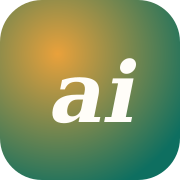
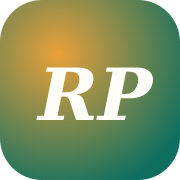
Rebrand site from Delveinai to Rainy Peaks
Names the studio Rainy Peaks and repositions it for search as "a northern
web design studio":

- site.ts: name, tagline, URL, contact email and LinkedIn handle
- Domain moved to rainypeaks.co.uk across canonical URLs, sitemap config,
  robots.txt and schema
- Logo wordmark becomes "Rainy Peaks" in the header, footer and landing page
- Every page title now ends "| Rainy Peaks"; the homepage title and hero
  eyebrow carry the "northern web design studio" positioning alongside the
  Manchester keyword
- About page: the "why delve in?" brand story is rewritten as "why Rainy
  Peaks?" — the rain and the hills, building for the worst day not the best
- OG image and app icons regenerated; they also drop the stale AI-era
  headline for "Websites that win work"
- README: new brand, new domain, plus a note to 301 the old domain

Claude-Session: https://claude.ai/code/session_01XxfkwaGZXxjSN3Y3uQLueZ

Changed region(s): [[0.1944, 0.3056, 0.8611, 0.6944]]

diff --git a/src/data/serviceAreas.ts b/src/data/serviceAreas.ts
@@ -25,7 +25,7 @@ export const serviceAreaPages: ServiceAreaPage[] = [
     serviceSlug: 'website-design-build',
     areaName: 'Manchester',
     h1: 'Web Design in Manchester',
-    metaTitle: 'Web Design Manchester - Websites for Small Businesses | Delveinai',
+    metaTitle: 'Web Design Manchester - Websites for Small Businesses | Rainy Peaks',
     metaDescription:
       'Web design in Manchester for small businesses. Fast, mobile-first, accessible websites built to win enquiries. Fixed prices, no lock-in, designed and built locally.',
     intro:
@@ -49,7 +49,7 @@ export const serviceAreaPages: ServiceAreaPage[] = [
     serviceSlug: 'ecommerce-websites',
     areaName: 'Manchester',
     h1: 'Ecommerce Web Design in Manchester',
-    metaTitle: 'Ecommerce Web Design Manchester - Online Shops That Sell | Delveinai',
+    metaTitle: 'Ecommerce Web Design Manchester - Online Shops That Sell | Rainy Peaks',
     metaDescription:
       'Ecommerce web design in Manchester: fast product pages, short checkouts and stock that stays in sync. Shopify and custom builds for independent retailers and makers.',
     intro:
@@ -73,7 +73,7 @@ export const serviceAreaPages: ServiceAreaPage[] = [
     serviceSlug: 'local-seo',
     areaName: 'Manchester',
     h1: 'Local SEO in Manchester',
-    metaTitle: 'Local SEO Manchester - Get Found by Nearby Customers | Delveinai',
+    metaTitle: 'Local SEO Manchester - Get Found by Nearby Customers | Rainy Peaks',
     metaDescription:
       'Local SEO in Manchester for small businesses: Google Business Profile, map pack visibility, local landing pages and technical fixes. Honest monthly reporting.',
     intro:
@@ -99,7 +99,7 @@ export const serviceAreaPages: ServiceAreaPage[] = [
     serviceSlug: 'website-design-build',
     areaName: 'Liverpool',
     h1: 'Web Design in Liverpool',
-    metaTitle: 'Web Design Liverpool - Websites for Small Businesses | Delveinai',
+    metaTitle: 'Web Design Liverpool - Websites for Small Businesses | Rainy Peaks',
     metaDescription:
       'Web design in Liverpool for small businesses. Fast, mobile-first websites built to win enquiries, with fixed prices, full ownership and no lock-in.',
     intro:
@@ -123,7 +123,7 @@ export const serviceAreaPages: ServiceAreaPage[] = [
     serviceSlug: 'ecommerce-websites',
     areaName: 'Liverpool',
     h1: 'Ecommerce Web Design in Liverpool',
-    metaTitle: 'Ecommerce Web Design Liverpool - Online Shops That Sell | Delveinai',
+    metaTitle: 'Ecommerce Web Design Liverpool - Online Shops That Sell | Rainy Peaks',
     metaDescription:
       'Ecommerce web design in Liverpool: fast product pages, trusted checkouts and stock synced with your shop floor. Shopify and custom builds for independent retailers.',
     intro:
@@ -147,7 +147,7 @@ export const serviceAreaPages: ServiceAreaPage[] = [
     serviceSlug: 'local-seo',
     areaName: 'Liverpool',
     h1: 'Local SEO in Liverpool',
-    metaTitle: 'Local SEO Liverpool - Get Found by Nearby Customers | Delveinai',
+    metaTitle: 'Local SEO Liverpool - Get Found by Nearby Customers | Rainy Peaks',
     metaDescription:
       'Local SEO in Liverpool for small businesses: Google Business Profile, map pack rankings, local pages and technical fixes. Reporting tied to enquiries, not vanity metrics.',
     intro:
@@ -173,7 +173,7 @@ export const serviceAreaPages: ServiceAreaPage[] = [
     serviceSlug: 'website-design-build',
     areaName: 'Cheshire',
     h1: 'Web Design in Cheshire',
-    metaTitle: 'Web Design Cheshire - Websites for Small Businesses | Delveinai',
+    metaTitle: 'Web Design Cheshire - Websites for Small Businesses | Rainy Peaks',
     metaDescription:
       'Web design across Cheshire: Chester, Wilmslow, Macclesfield, Crewe and Northwich. Fast, well-crafted websites for businesses selling on quality rather than price.',
     intro:
@@ -197,7 +197,7 @@ export const serviceAreaPages: ServiceAreaPage[] = [
     serviceSlug: 'ecommerce-websites',
     areaName: 'Cheshire',
     h1: 'Ecommerce Web Design in Cheshire',
-    metaTitle: 'Ecommerce Web Design Cheshire - Online Shops That Sell | Delveinai',
+    metaTitle: 'Ecommerce Web Design Cheshire - Online Shops That Sell | Rainy Peaks',
     metaDescription:
       'Ecommerce web design across Cheshire: fast, well-photographed product pages and short checkouts for boutiques, makers, farm shops and specialist retailers.',
     intro:
@@ -221,7 +221,7 @@ export const serviceAreaPages: ServiceAreaPage[] = [
     serviceSlug: 'local-seo',
     areaName: 'Cheshire',
     h1: 'Local SEO in Cheshire',
-    metaTitle: 'Local SEO Cheshire - Get Found by Nearby Customers | Delveinai',
+    metaTitle: 'Local SEO Cheshire - Get Found by Nearby Customers | Rainy Peaks',
     metaDescription:
       'Local SEO across Cheshire: Google Business Profile, map pack visibility and local landing pages for Chester, Wilmslow, Macclesfield, Northwich and Crewe.',
     intro:
@@ -247,7 +247,7 @@ export const serviceAreaPages: ServiceAreaPage[] = [
     serviceSlug: 'website-design-build',
     areaName: 'Warrington',
     h1: 'Web Design in Warrington',
-    metaTitle: 'Web Design Warrington - Websites for Small Businesses | Delveinai',
+    metaTitle: 'Web Design Warrington - Websites for Small Businesses | Rainy Peaks',
     metaDescription:
       'Web design in Warrington for small businesses. Fast, mobile-first websites for trades, logistics, manufacturing and professional services. Fixed prices, no lock-in.',
     intro:
@@ -271,7 +271,7 @@ export const serviceAreaPages: ServiceAreaPage[] = [
     serviceSlug: 'ecommerce-websites',
     areaName: 'Warrington',
     h1: 'Ecommerce Web Design in Warrington',
-    metaTitle: 'Ecommerce Web Design Warrington - Online Shops That Sell | Delveinai',
+    metaTitle: 'Ecommerce Web Design Warrington - Online Shops That Sell | Rainy Peaks',
     metaDescription:
       'Ecommerce web design in Warrington: fast product pages, trade accounts and stock synced with your systems. Built for retailers, wholesalers and distributors.',
     intro:
@@ -295,7 +295,7 @@ export const serviceAreaPages: ServiceAreaPage[] = [
     serviceSlug: 'local-seo',
     areaName: 'Warrington',
     h1: 'Local SEO in Warrington',
-    metaTitle: 'Local SEO Warrington - Get Found by Nearby Customers | Delveinai',
+    metaTitle: 'Local SEO Warrington - Get Found by Nearby Customers | Rainy Peaks',
     metaDescription:
       'Local SEO in Warrington for small businesses: Google Business Profile, map pack rankings and local landing pages that bring calls, not just impressions.',
     intro:

diff --git a/src/data/services.ts b/src/data/services.ts
@@ -20,7 +20,7 @@ export const services: Service[] = [
     name: 'Free Website Review',
     shortName: 'Website Review',
     tagline: 'Find out exactly why your website isn’t winning work, before you spend anything.',
-    metaTitle: 'Free Website Review for Small Businesses | Delveinai',
+    metaTitle: 'Free Website Review for Small Businesses | Rainy Peaks',
     metaDescription:
       'A free 15-minute conversation and a personalised report showing exactly what is holding your website back. Manchester-based web designer, no jargon, no obligation.',
     whoFor:
@@ -66,7 +66,7 @@ export const services: Service[] = [
     name: 'Website Design & Build',
     shortName: 'Design & Build',
     tagline: 'A fast, professional website that turns visitors into enquiries, built in weeks not months.',
-    metaTitle: 'Website Design & Build for Small Businesses | Delveinai',
+    metaTitle: 'Website Design & Build for Small Businesses | Rainy Peaks',
     metaDescription:
       'Custom website design and build for small businesses across Manchester and the North West. Fast, mobile-first, accessible sites with fixed prices and no lock-in.',
     whoFor:
@@ -113,7 +113,7 @@ export const services: Service[] = [
     name: 'Ecommerce Websites',
     shortName: 'Ecommerce',
     tagline: 'An online shop that’s quick to buy from and quick for you to run.',
-    metaTitle: 'Ecommerce Website Design for Small Businesses | Delveinai',
+    metaTitle: 'Ecommerce Website Design for Small Businesses | Rainy Peaks',
     metaDescription:
       'Ecommerce websites for small businesses in the North West: Shopify and headless builds, fast product pages, sensible checkouts and stock that stays in sync.',
     whoFor:
@@ -159,7 +159,7 @@ export const services: Service[] = [
     name: 'Local SEO & Google Visibility',
     shortName: 'Local SEO',
     tagline: 'Get found by the people searching for what you do, in the towns you actually serve.',
-    metaTitle: 'Local SEO for Small Businesses in the North West | Delveinai',
+    metaTitle: 'Local SEO for Small Businesses in the North West | Rainy Peaks',
     metaDescription:
       'Practical local SEO for small businesses: Google Business Profile, local landing pages, technical fixes and reviews. Honest reporting from a Manchester-based specialist.',
     whoFor:
@@ -205,7 +205,7 @@ export const services: Service[] = [
     name: 'Website Care Plan',
     shortName: 'Care Plan',
     tagline: 'Someone looking after your website every month, so it never quietly falls over.',
-    metaTitle: 'Website Care, Hosting & Support Plans | Delveinai',
+    metaTitle: 'Website Care, Hosting & Support Plans | Rainy Peaks',
     metaDescription:
       'Monthly website care for small businesses: hosting, updates, backups, security, edits and improvements. One predictable cost, no long contracts.',
     whoFor:

diff --git a/src/data/locations.ts b/src/data/locations.ts
@@ -30,7 +30,7 @@ export const locations: Location[] = [
     metaDescription:
       'Web design in Manchester for small businesses. Fast, mobile-first websites that win enquiries, from the Northern Quarter to Didsbury. Free website review, no obligation.',
     intro:
-      'Manchester is where Delveinai is based, and it’s a city with no shortage of web designers. What’s harder to find is someone who’ll tell you honestly that your site doesn’t need rebuilding, it needs three fixes and better photographs. Most Manchester businesses aren’t venture-funded startups; they’re agencies, practices, workshops and shops that need a website to earn its keep. That’s what I build.',
+      'Manchester is where Rainy Peaks is based, and it’s a city with no shortage of web designers. What’s harder to find is someone who’ll tell you honestly that your site doesn’t need rebuilding, it needs three fixes and better photographs. Most Manchester businesses aren’t venture-funded startups; they’re agencies, practices, workshops and shops that need a website to earn its keep. That’s what I build.',
     businesses: [
       'Creative and marketing agencies around the Northern Quarter and Ancoats',
       'Law and accountancy firms in Spinningfields and around Deansgate',

diff --git a/src/data/site.ts b/src/data/site.ts
@@ -3,13 +3,13 @@
  * Update contact details, booking links and form endpoints here.
  */
 export const site = {
-  name: 'Delveinai',
-  tagline: 'Websites that win work for small businesses across the North West.',
-  url: 'https://delveinai.co.uk',
+  name: 'Rainy Peaks',
+  tagline: 'A northern web design studio building websites that win work for small businesses.',
+  url: 'https://rainypeaks.co.uk',
   founder: 'James',
-  // TODO: point at a working inbox on the new Delveinai domain once its email
+  // TODO: point at a working inbox on the new Rainy Peaks domain once its email
   // (MX) records are set up.
-  email: 'hello@delveinai.co.uk',
+  email: 'hello@rainypeaks.co.uk',
   region: 'Manchester & the North West',
   address: {
     locality: 'Manchester',
@@ -53,7 +53,7 @@ export const site = {
   // Configure notification emails in Netlify: Site → Forms → Notifications.
   social: {
     // TODO: create/rename the LinkedIn company page to match the new brand.
-    linkedin: 'https://www.linkedin.com/company/delveinai',
+    linkedin: 'https://www.linkedin.com/company/rainypeaks',
   },
 } as const;
 

diff --git a/src/styles/global.css b/src/styles/global.css
@@ -1,5 +1,5 @@
 /* ==========================================================================
-   Delveinai, Design System
+   Rainy Peaks, Design System
    Calm, editorial, premium. Mobile-first. Light & dark.
    ========================================================================== */
 

diff --git a/README.md b/README.md
@@ -1,6 +1,6 @@
-# Delveinai
+# Rainy Peaks
 
-**Websites that win work for small businesses across the North West.**
+**A northern web design studio building websites that win work for small businesses.**
 
 A production-ready, SEO-first marketing website for an independent web designer based in
 Manchester, serving small businesses across the North West. Built with
@@ -66,7 +66,7 @@ The site has dedicated ad infrastructure:
 
 - **`/free-website-review/`** — distraction-free landing page (no nav, one message, one form).
   Point all Meta ads here, with UTM tags, e.g.
-  `https://delveinai.co.uk/free-website-review/?utm_source=meta&utm_medium=paid&utm_campaign=trades-websites`
+  `https://rainypeaks.co.uk/free-website-review/?utm_source=meta&utm_medium=paid&utm_campaign=trades-websites`
 - **`/book/thanks/`** — thank-you page every successful form submission redirects to.
   This is your conversion page.
 - **Meta Pixel** — set `metaPixelId` in `src/data/site.ts` (from Meta Events Manager).
@@ -106,7 +106,7 @@ tagged with the channel/campaign that produced it.
 
 1. Add the site as a property in [Google Search Console](https://search.google.com/search-console)
    (domain property is best; verify via DNS).
-2. Submit the sitemap: `https://delveinai.co.uk/sitemap-index.xml`
+2. Submit the sitemap: `https://rainypeaks.co.uk/sitemap-index.xml`
    (also referenced in `robots.txt`, and linked from every page's `<head>`).
 3. Request indexing for the homepage and a handful of key pages to speed up first crawl.
 4. Repeat in [Bing Webmaster Tools](https://www.bing.com/webmasters) - it can import
@@ -114,13 +114,14 @@ tagged with the channel/campaign that produced it.
 
 ## Before launch — replace these
 
-1. **Domain** — `src/data/site.ts`, `astro.config.mjs` and `public/robots.txt` all point
-   at the live domain `https://delveinai.co.uk`. `www.` already 301-redirects to it, but
-   `aiiscurious.netlify.app` still serves the site directly — in Netlify go to
-   Site → Domain management and confirm `delveinai.co.uk` is set as the **primary domain**
-   so the netlify.app URL redirects too. Then submit the sitemap in Search Console for the
-   new domain, and set up email (MX records) for `hello@delveinai.co.uk` so the contact
-   address in `src/data/site.ts` actually receives mail.
+1. **Domain** — `src/data/site.ts`, `astro.config.mjs` and `public/robots.txt` now point
+   at `https://rainypeaks.co.uk`. Register it if you haven't, add it in Netlify under
+   Site → Domain management and set it as the **primary domain** so both `www.` and
+   `aiiscurious.netlify.app` 301-redirect to it. Add a 301 from the previous domain
+   `delveinai.co.uk` as well so any indexed URLs and existing ad links pass their equity
+   across rather than dying. Then submit the sitemap in Search Console for the new domain,
+   and set up email (MX records) for `hello@rainypeaks.co.uk` so the contact address in
+   `src/data/site.ts` actually receives mail.
 2. **Form notifications** — enable Netlify Forms email notifications (see above) so
    submissions reach your inbox.
 3. **Tracking IDs** — `metaPixelId`, `ga4MeasurementId`, `googleAdsId` and
